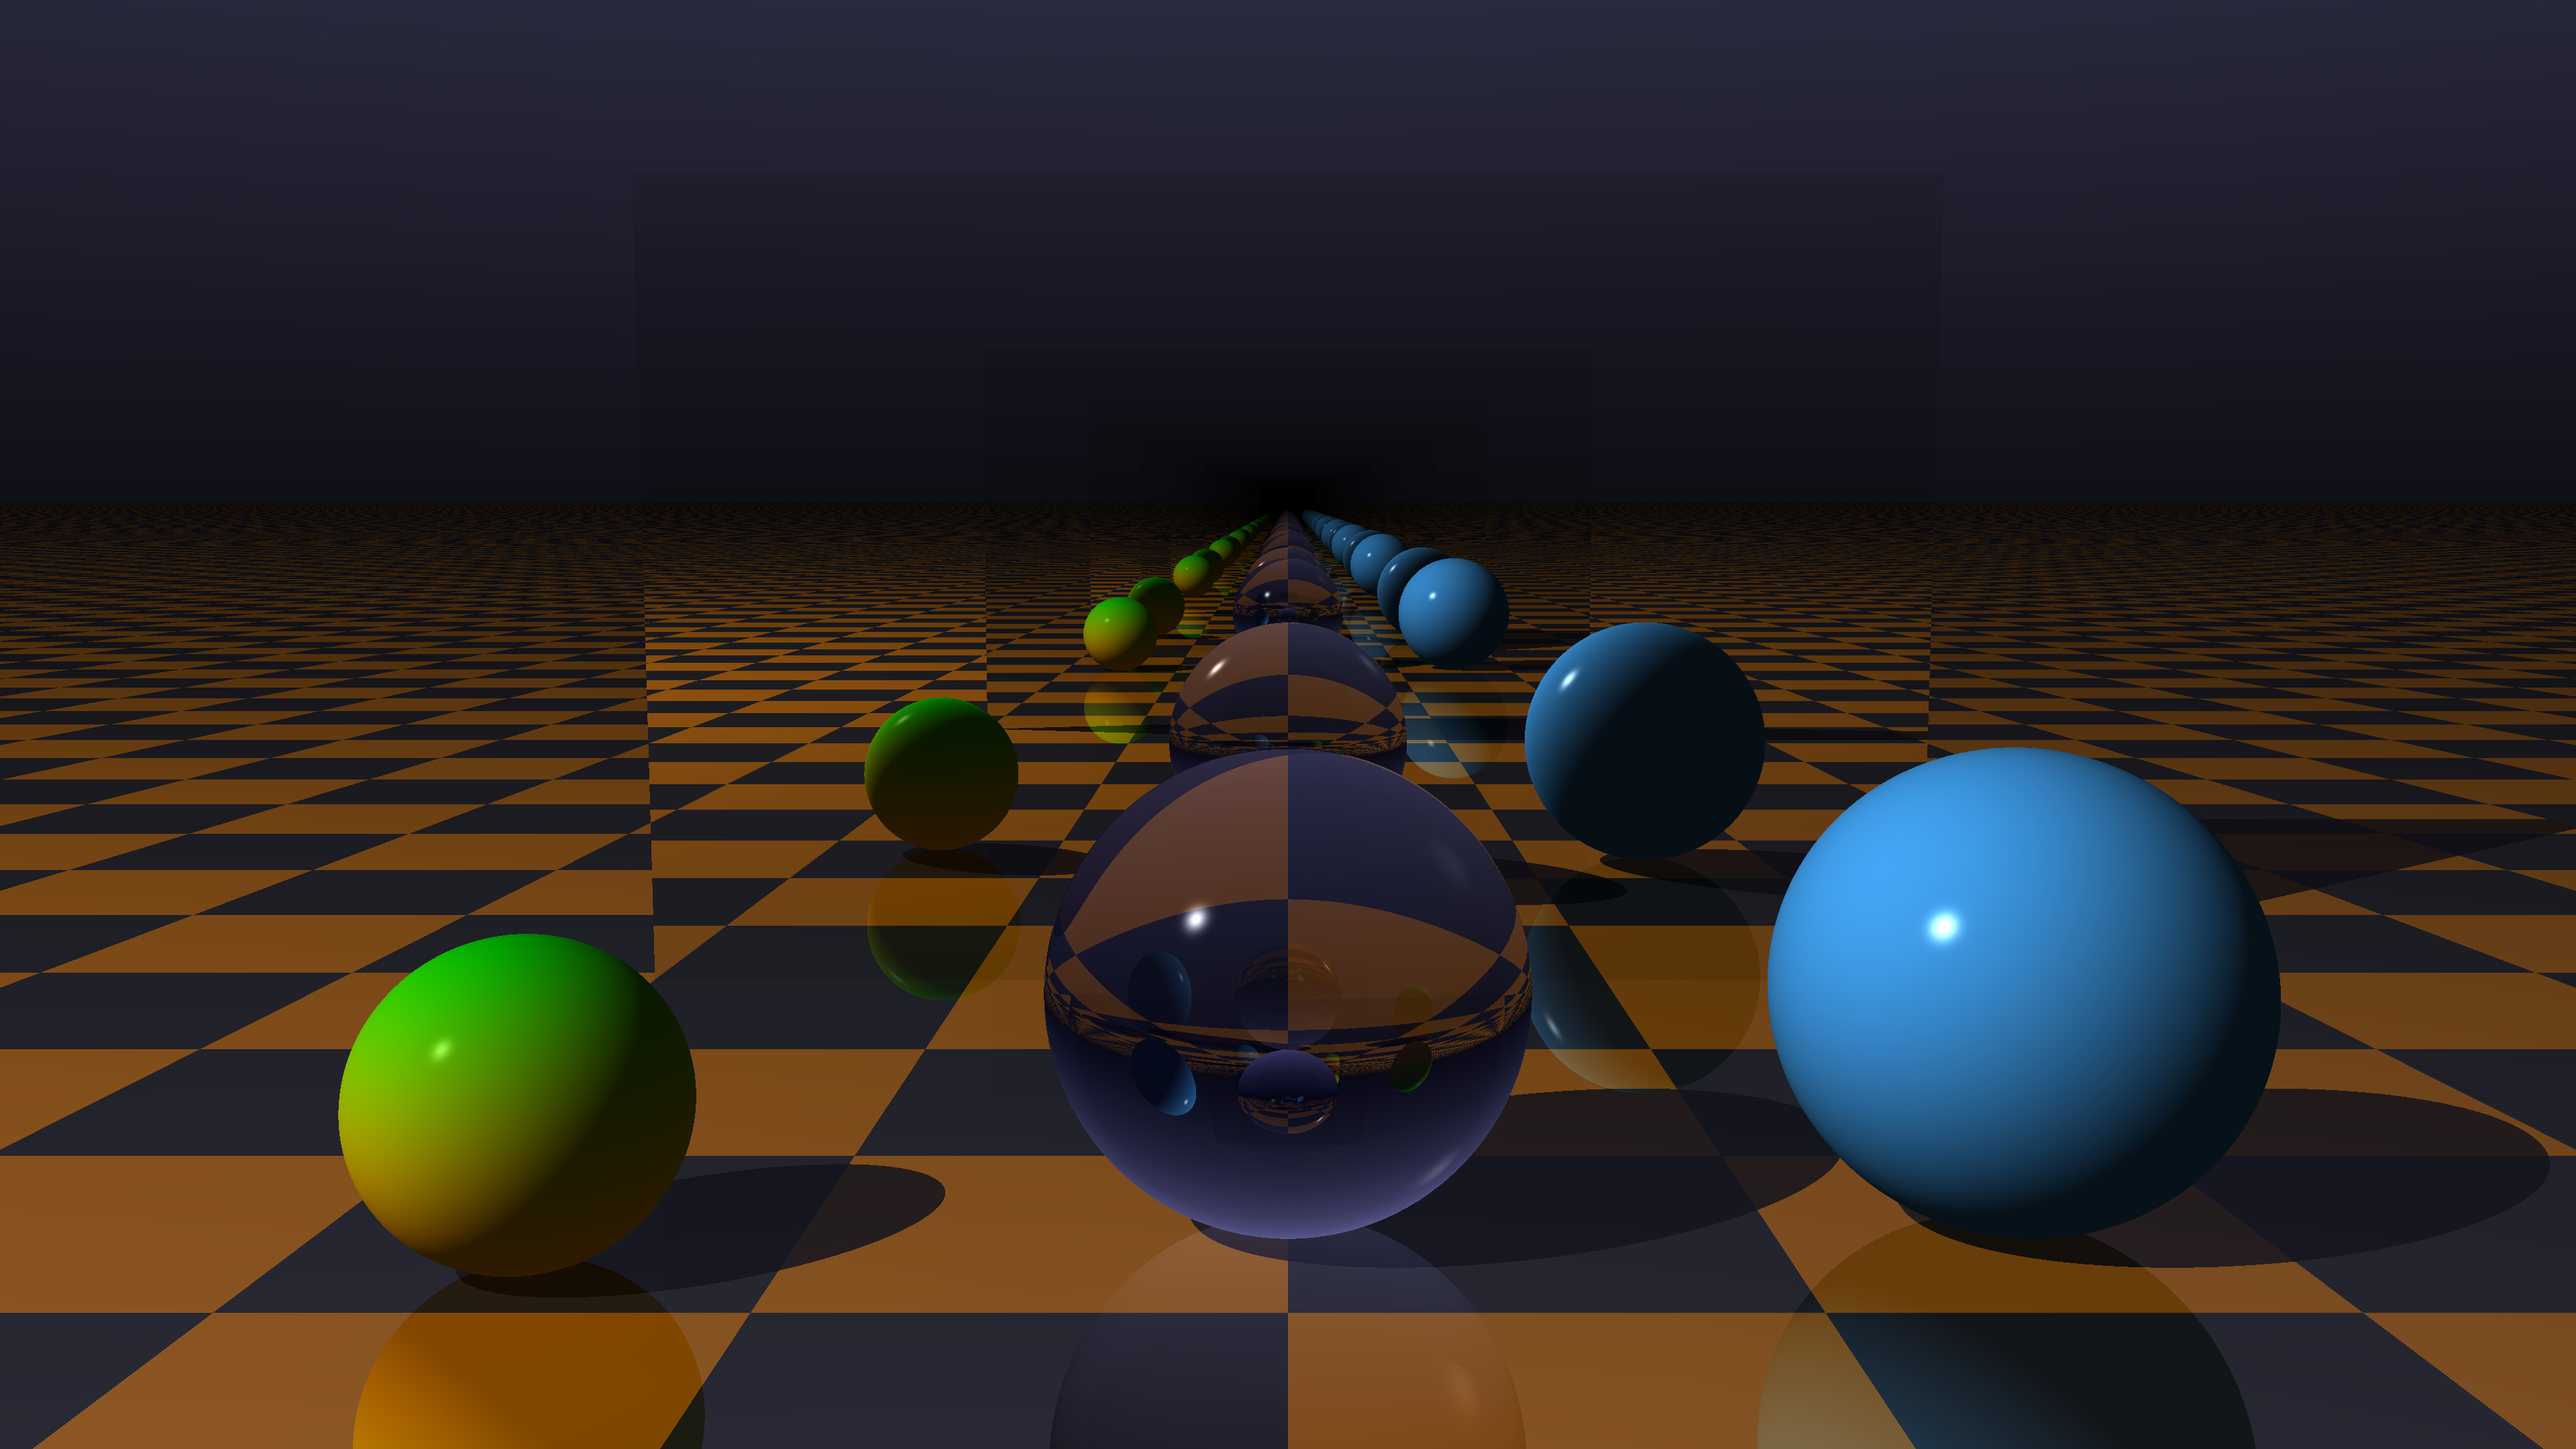
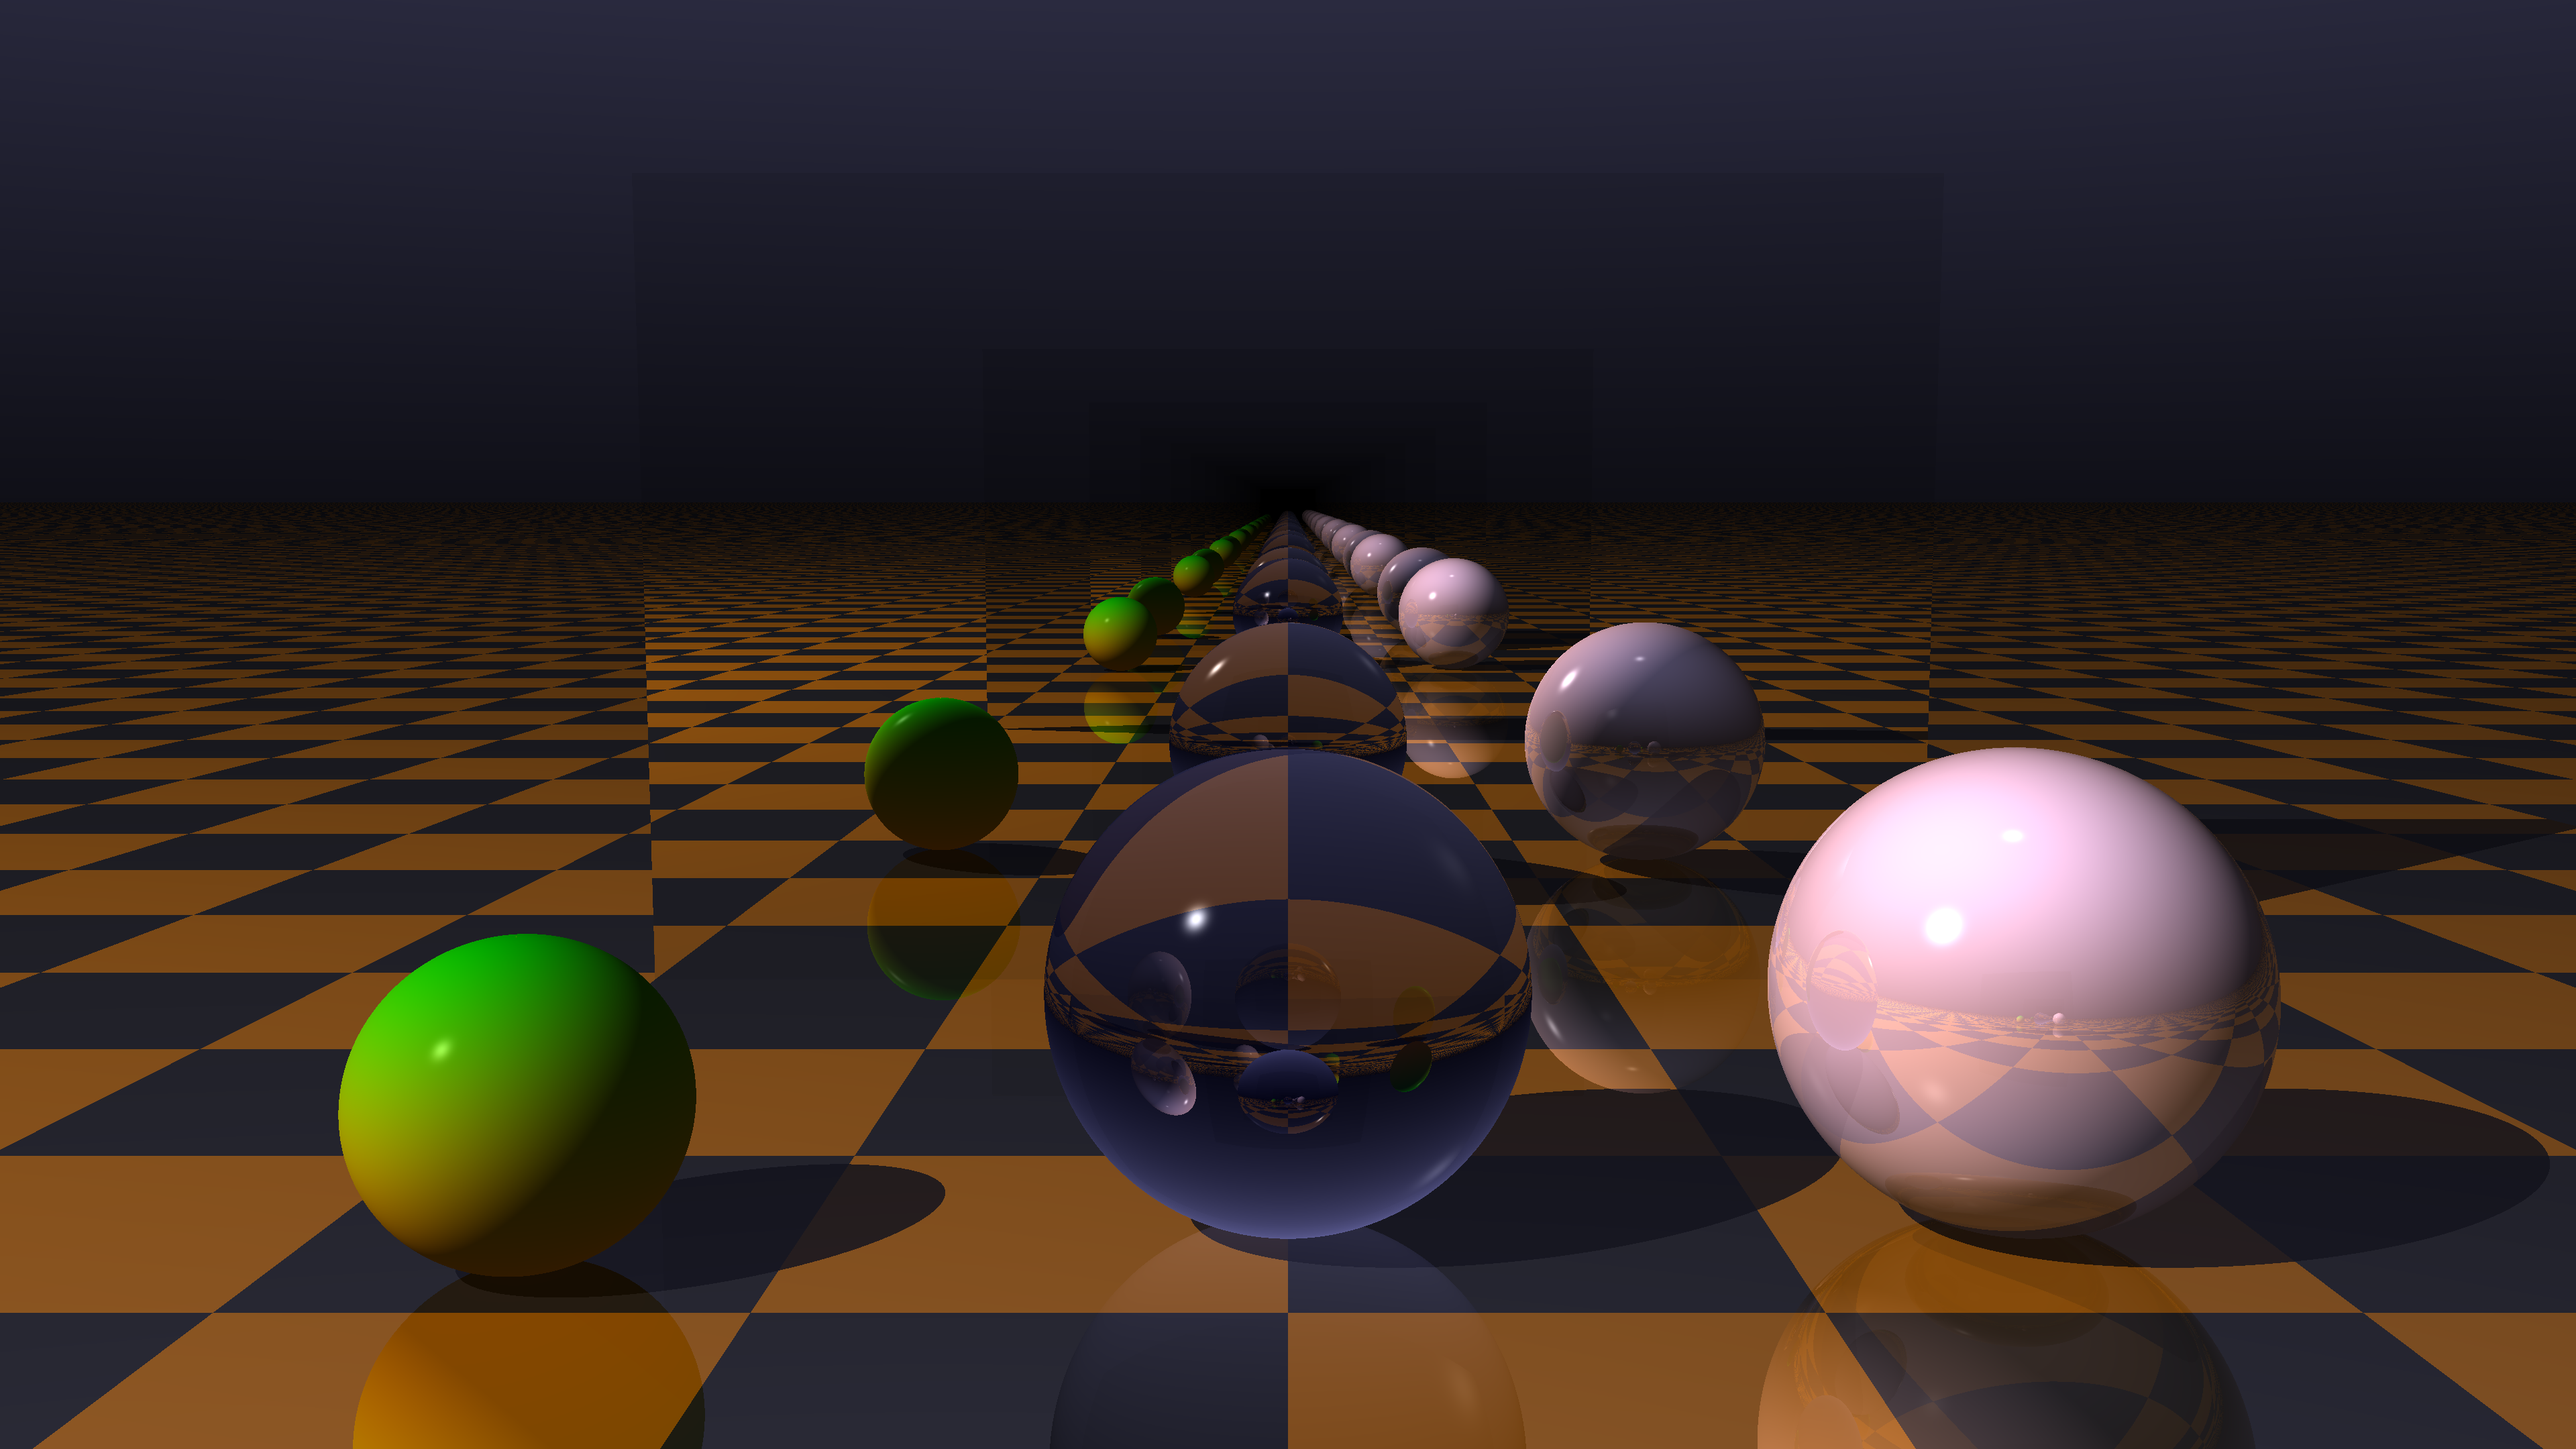
chore: update progress

Changed region(s): [[0.5, 0.3412, 0.9062, 1.0], [0.4375, 0.7134, 0.4688, 0.7755], [0.4375, 0.6514, 0.4688, 0.6824]]

diff --git a/src/main.rs b/src/main.rs
@@ -91,13 +91,14 @@ fn main() -> std::io::Result<()> {
     let middle2 = Sphere::default()
         .set_material(
             Material::default()
-                .set_color(RGB::new(66, 165, 245).into())
+                .set_color(RGB::new(255, 192, 203).into())
                 // .set_transparency(1.)
                 // .set_refractive_index(1.5)
                 // .set_ambient(0.1)
                 // .set_diffuse(0.1)
                 // .set_specular(0.1)
                 // .set_shininess(300.),
+                .set_reflective(0.4),
         )
         .set_transform(
             Matrix::identity()
